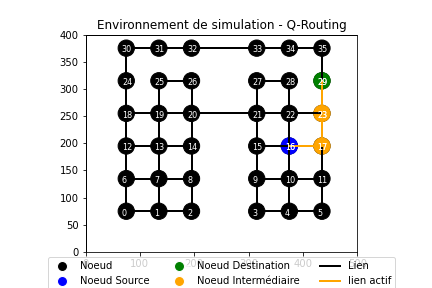
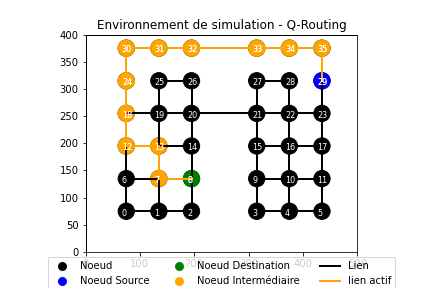
add

Changed region(s): [[0.2708, 0.125, 0.7824, 0.6562]]

diff --git a/envs/simulator.py b/envs/simulator.py
@@ -299,26 +299,202 @@ class NetworkSimulatorEnv(gym.Env):
             return reward, (next_node, current_event.dest)
 
 
-    def compute_best(self):
+    def compute_best(self, source=0, destination=0, sortie=False):
 
-        changing = True
-
-        for i in range(self.nnodes):
-            for j in  range(self.nnodes):
-                if i == j:
-                    self.distance[i][j] = 0
-                else:
-                    self.distance[i][j] = self.nnodes+1
-                self.shortest[i][j] = -1
-
-        while changing:
-            changing = False
+        if sortie == False:
+            changing = True
+    
             for i in range(self.nnodes):
-                for j in  range(self.nnodes):
-                    #/* Update our estimate of distance for sending from i to j. */
-                    if i != j:
-                      for k in range(self.nlinks[i]):
-                        if  self.distance[i][j] >  1 + self.distance[self.links[i][k]][j]:
-                          self.distance[i][j] = 1 + self.distance[self.links[i][k]][j]	#/* Better. */
-                          self.shortest[i][j] = k
-                          changing = True
+                for j in range(self.nnodes):
+                    if i == j:
+                        self.distance[i][j] = 0
+                    else:
+                        self.distance[i][j] = self.nnodes + 1
+                    self.shortest[i][j] = -1
+    
+            while changing:
+                changing = False
+                for i in range(self.nnodes):
+                    for j in range(self.nnodes):
+                        if i != j:
+                            updated = False  # Initialize the flag
+                            for k in range(self.nlinks[i]):
+                                if self.distance[i][j] > 1 + self.distance[self.links[i][k]][j]:
+                                    self.distance[i][j] = 1 + self.distance[self.links[i][k]][j]
+                                    self.shortest[i][j] = k
+                                    updated = True  # Set the flag if an update occurs
+                            if updated:  # Proceed to the next iteration only if an update happened
+                                changing = True
+     
+        else:
+            # Construct the shortest path
+            path = [source]
+            current_node = source
+            itr = 0
+            while current_node != destination and itr <= 1000:
+                next_hop = self.shortest[int(current_node)][int(destination)]
+                path.append(next_hop)
+                current_node = next_hop
+                itr += 1
+        
+            return path
+
+#----------------------------------------------------------------------------------------------
+#--------------------------- Path research algorithms -----------------------------------------
+
+    def shortest_path(self, start_node, end_node): 
+        """ 
+        Computes the shortest path between two nodes in the graph using Breadth-First Search. 
+        Args: 
+        start_node: The index of the starting node. 
+        end_node: The index of the ending node. 
+     
+        Returns: 
+            A tuple containing: 
+                - The shortest path as a list of node indices.  Returns None if no path exists. 
+                - The number of nodes visited during the search. 
+        """ 
+ 
+        if start_node < 0 or start_node >= self.nnodes or end_node < 0 or end_node >= self.nnodes: 
+            raise ValueError("Start or end node index out of bounds.") 
+ 
+        queue = collections.deque([(start_node, [start_node])])  # (node, path_so_far) 
+        visited = {start_node}  #Use a set to track visited nodes efficiently 
+        nodes_visited = 0 
+         
+        while queue: 
+            current_node, path = queue.popleft() 
+            nodes_visited += 1 
+         
+            if current_node == end_node: 
+                return path, nodes_visited 
+         
+            # Correct iteration: Iterate over the neighbors directly 
+            neighbors = []
+            for i in range(self.nlinks[current_node]):
+                neighbors.append(self.links[current_node][i])
+                
+            for neighbor in neighbors: 
+                if neighbor not in visited: 
+                    visited.add(neighbor)  # Add the neighbor to visited, not the slice 
+                    queue.append((neighbor, path + [neighbor])) 
+         
+        return None, nodes_visited  # No path found 
+    
+
+    def dijkstra(self, source, destination):
+        """
+        Finds the shortest path from source to destination using Dijkstra's algorithm.
+    
+        Args:
+            source: The source node.
+            destination: The destination node.
+    
+        Returns:
+            A tuple containing:
+                - A list representing the shortest path from source to destination, or None if no path exists.
+                - The number of nodes explored during the search.
+        """
+    
+        dist = [float('inf')] * self.nnodes  # Distances from source to all nodes
+        prev = [-1] * self.nnodes  # Previous node in the shortest path
+        visited = [False] * self.nnodes
+        nodes_explored = 0
+    
+        dist[source] = 0
+    
+        while True:
+            min_dist = float('inf')
+            u = None
+    
+            # Find the node with the minimum distance among unvisited nodes
+            for v in range(self.nnodes):
+                if not visited[v] and dist[v] < min_dist:
+                    min_dist = dist[v]
+                    u = v
+    
+            if u is None:
+                break  # No unvisited nodes left
+    
+            visited[u] = True
+            nodes_explored += 1
+    
+            # Update distances of neighbors
+            for v in self.links[u]:
+                alt = dist[u] + 1  # Assuming unit edge weights
+                if alt < dist[v]:
+                    dist[v] = alt
+                    prev[v] = u
+    
+        # Reconstruct the path
+        path = []
+        if dist[destination] == float('inf'):
+            return None, nodes_explored  # No path exists
+    
+        current_node = destination
+        while current_node != source:
+            path.insert(0, current_node)
+            current_node = prev[current_node]
+        path.insert(0, source)
+    
+        return path, nodes_explored
+    
+    
+    def heuristic(self, current, goal):
+        # Simple Euclidean distance heuristic
+        x1, y1 = self.coords[current]
+        x2, y2 = self.coords[goal]
+        return math.sqrt((x1 - x2) ** 2 + (y1 - y2) ** 2)
+    
+    def a_star(self, source, destination):
+        """
+        Finds the shortest path from source to destination using the A* algorithm.
+    
+        Args:
+            source: The source node.
+            destination: The destination node.
+    
+        Returns:
+            A tuple containing:
+                - A list representing the shortest path from source to destination, or None if no path exists.
+                - The number of nodes explored during the search.
+        """
+    
+        open_set = set([source])
+        closed_set = set()
+        came_from = {}
+        g_score = {node: float('inf') for node in range(self.nnodes)}
+        g_score[source] = 0
+        f_score = {node: float('inf') for node in range(self.nnodes)}
+        f_score[source] = self.heuristic(source, destination)
+        nodes_explored = 1  # Count the source node
+    
+        while open_set:
+            current = min(open_set, key=lambda node: f_score[node])
+    
+            if current == destination:
+                # Reconstruct path
+                path = [destination]
+                while current in came_from:
+                    current = came_from[current]
+                    path.insert(0, current)
+                return path, nodes_explored
+    
+            open_set.remove(current)
+            closed_set.add(current)
+            
+            for neighbor in self.links[current]:
+                tentative_g_score = g_score[current] + 1  # Assuming unit edge weights
+    
+                if neighbor in closed_set and tentative_g_score >= g_score[neighbor]:
+                    continue
+    
+                if neighbor not in open_set or tentative_g_score < g_score[neighbor]:
+                    came_from[neighbor] = current
+                    g_score[neighbor] = tentative_g_score
+                    f_score[neighbor] = g_score[neighbor] + self.heuristic(neighbor, destination)
+                    if neighbor not in open_set:
+                        open_set.add(neighbor)
+                        nodes_explored += 1
+    
+        return None, nodes_explored  # No path found

diff --git a/do_q_learning.py b/do_q_learning.py
@@ -13,7 +13,7 @@ import pylab as pl
 # then tests the value of the learning by every 1000 iterations using the best choice and printing the reward
 ####
 
-def afficher_noeud(coords, color, r, num, ax, pl):
+def afficher_noeud(coords, color, r, num, ax, plt):
     x, y = coords
     mult = 600
     a = 15
@@ -22,7 +22,7 @@ def afficher_noeud(coords, color, r, num, ax, pl):
     y = float(y) * mult + a
     drawing = plt.Circle((x, y), r, color=color, fill=True)
     ax.add_artist(drawing)
-    pl.text((x - font_size), (y - font_size), str(num), color="white", fontsize=font_size)
+    plt.text((x - font_size), (y - font_size), str(num), color="white", fontsize=font_size)
     
 def afficher_liens(links, coords, color, ax):
     k = 600
@@ -64,13 +64,13 @@ def afficher(coords, links, path, src, dest, r, namefile, ax):
     #Afficher les noeuds intermédiaires du chemin en orange
     for i in range(1, len(path) - 1):
         act_node = path[i]
-        afficher_noeud(coords[act_node], 'orange', r, act_node, ax, pl)
+        afficher_noeud(coords[act_node], 'orange', r, act_node, ax, plt)
     
     # Afficher le noeud source en bleu
-    afficher_noeud(coords[src], 'blue', r, src, ax, pl)
+    afficher_noeud(coords[src], 'blue', r, src, ax, plt)
         
     # Afficher le noeud de destination en vert
-    afficher_noeud(coords[dest], 'green', r, dest, ax, pl)
+    afficher_noeud(coords[dest], 'green', r, dest, ax, plt)
     
     #Afficher le noeud de l'action en orange
     #afficher_noeud(coords[act_node], 'orange', r, act_node, ax, pl)
@@ -162,8 +162,8 @@ def main():
 
                 if t%10000 == 0:
 
-                    if env.routed_packets != 0:
-                        print ("q learning with callmean:{} time:{}, average delivery time:{}, length of average route:{}, r_sum_random:{}".format(i, t, float(env.total_routing_time)/float(env.routed_packets), float(env.total_hops)/float(env.routed_packets), r_sum_random))
+                    #if env.routed_packets != 0:
+                    #    print ("q learning with callmean:{} time:{}, average delivery time:{}, length of average route:{}, r_sum_random:{}".format(i, t, float(env.total_routing_time)/float(env.routed_packets), float(env.total_hops)/float(env.routed_packets), r_sum_random))
 
 
                     current_state = state_pair[1]
@@ -183,6 +183,12 @@ def main():
 
                     if env.routed_packets != 0:
                         print("---->src: {}  dest: {}".format(n, dest))
+                        #d_path, d_hops = env.dijkstra(n, dest)
+                        #a_star_path, a_hops = env.a_star(n, dest)
+                        a_path, v = env.shortest_path(n, dest)
+                        print(">>>>>>> Path Compute best: {}  visited nodes (hops): {}".format(a_path, v))
+                        #print(">>>>>> path selon Dijkstra: {}  hops: {}\n>>>>>> path selon A*: {}  hops: {}\n".format(d_path, d_hops, a_star_path, a_hops))
+                        
                         find, path = reconstruct_path(n, dest, agent.q, env.links, env.nlinks)
                         print(">>>>>>>> path: ", path)
                         print ("q learning with callmean:{} time:{}, average delivery time:{}, length of average route:{}, r_sum_best:{}\n\n".format(i, t, float(env.total_routing_time)/float(env.routed_packets), float(env.total_hops)/float(env.routed_packets), r_sum_best))
@@ -190,7 +196,7 @@ def main():
                             ax = plot_config("Q-Routing")
                             afficher(env.coords, env.links, path, n, dest, 15, "q-routing", ax)
                         path = []
-
+                        
 
 
 if __name__ == '__main__':
